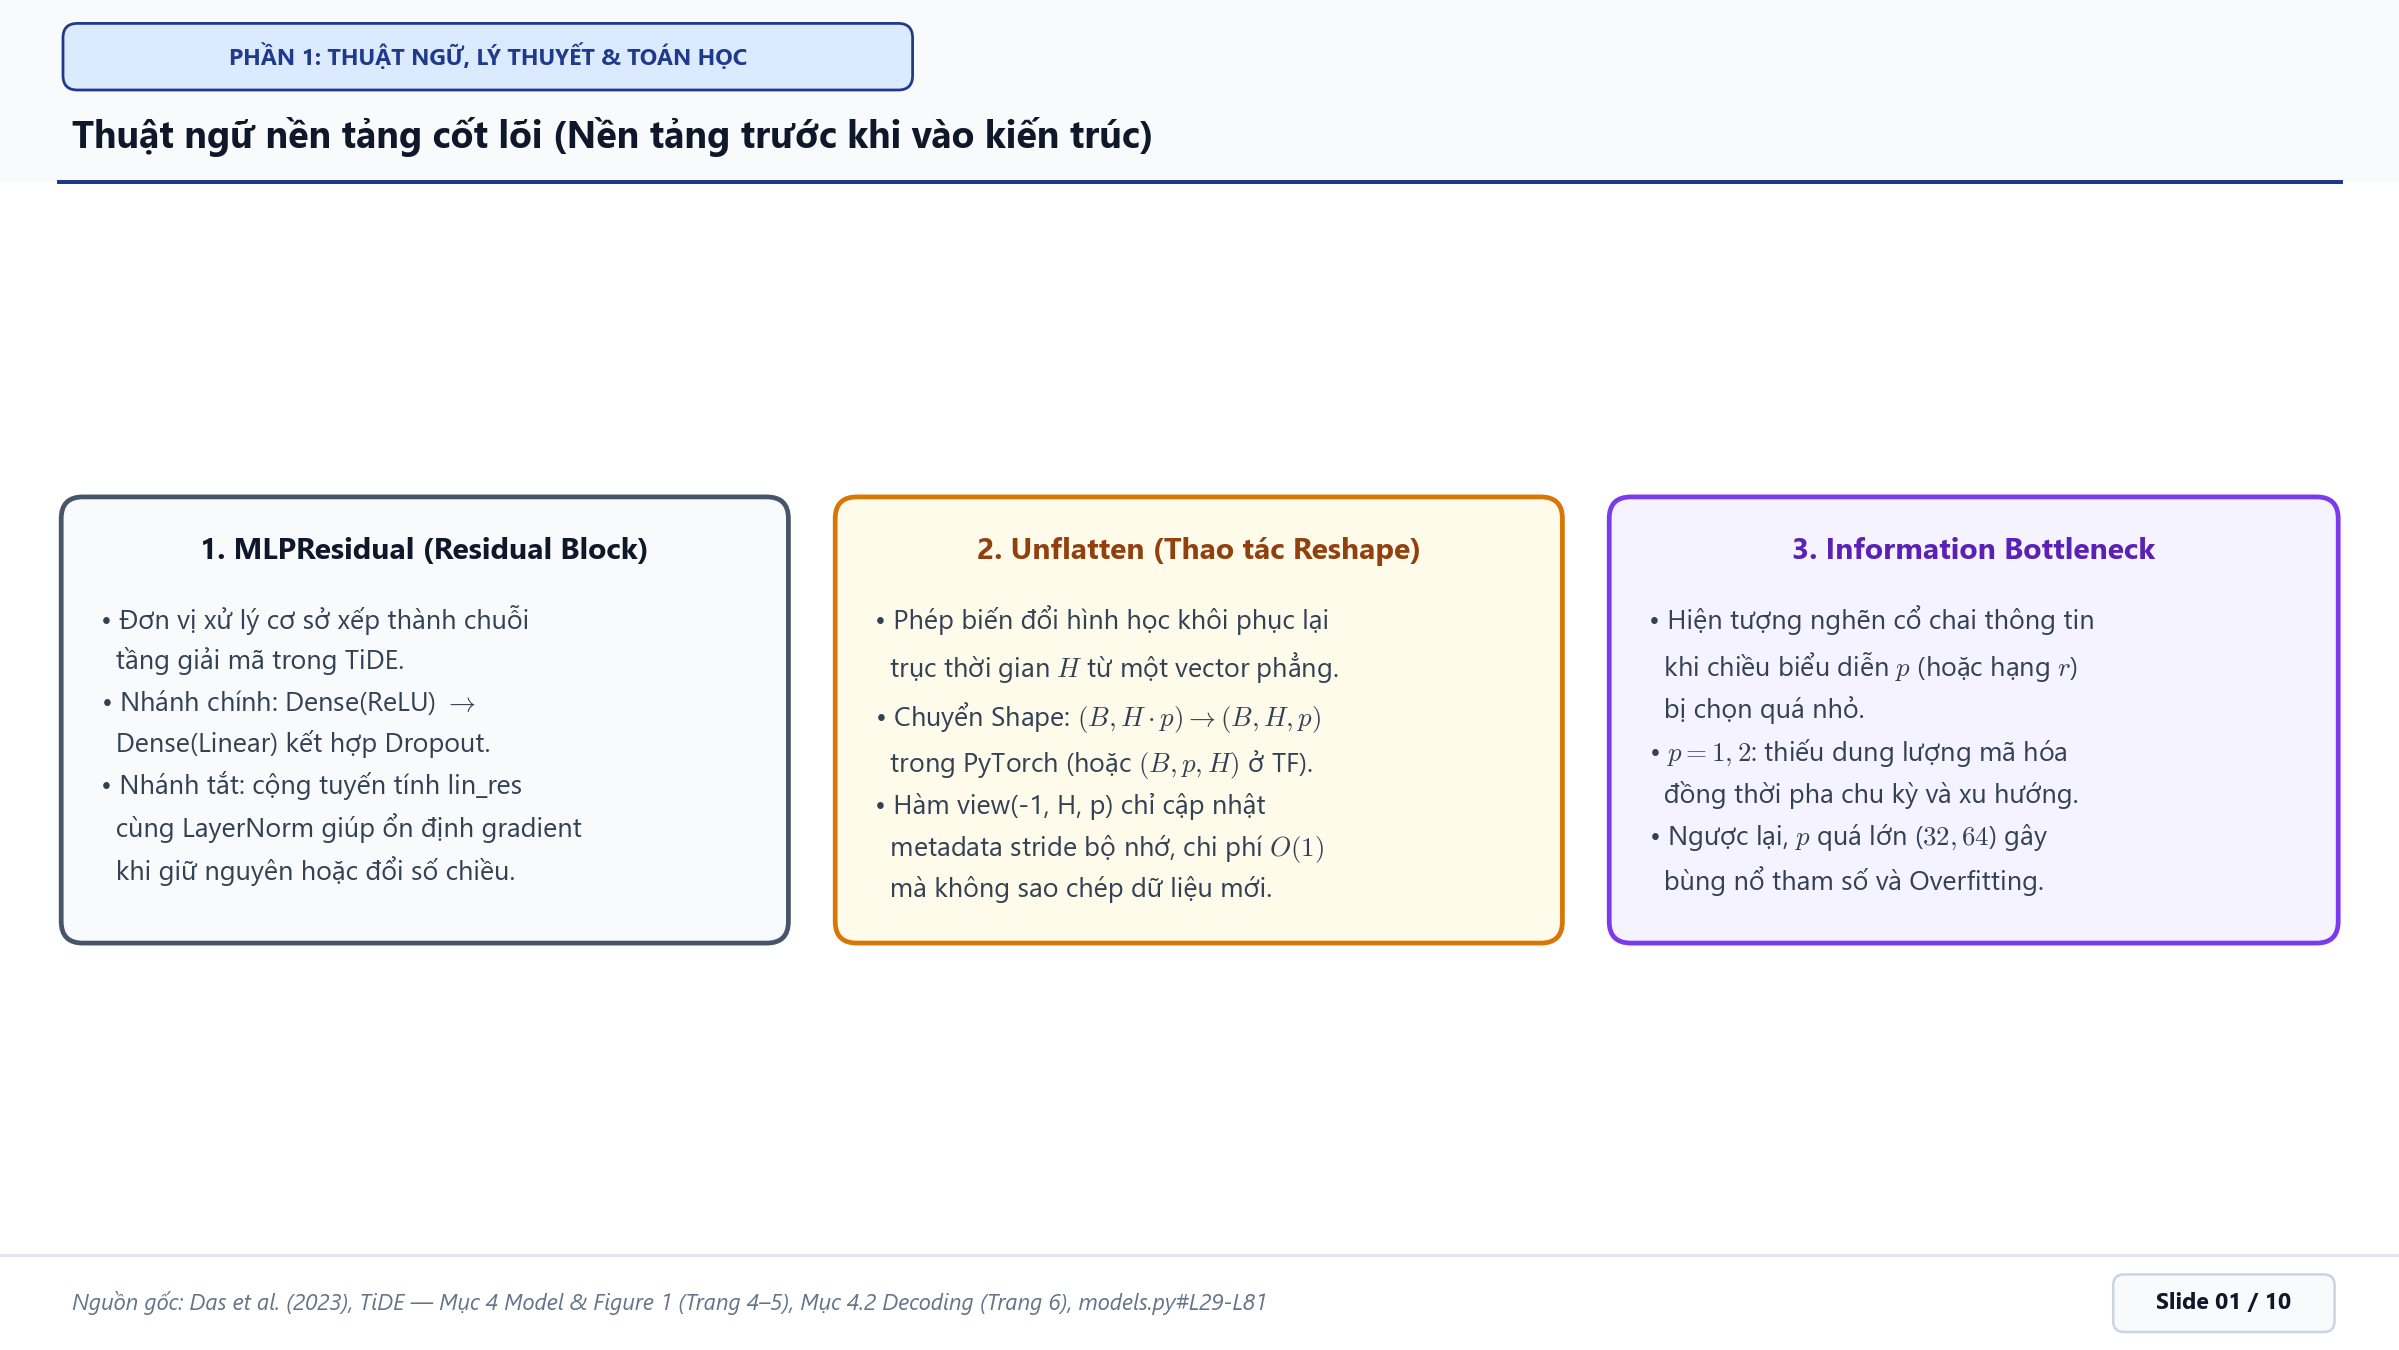
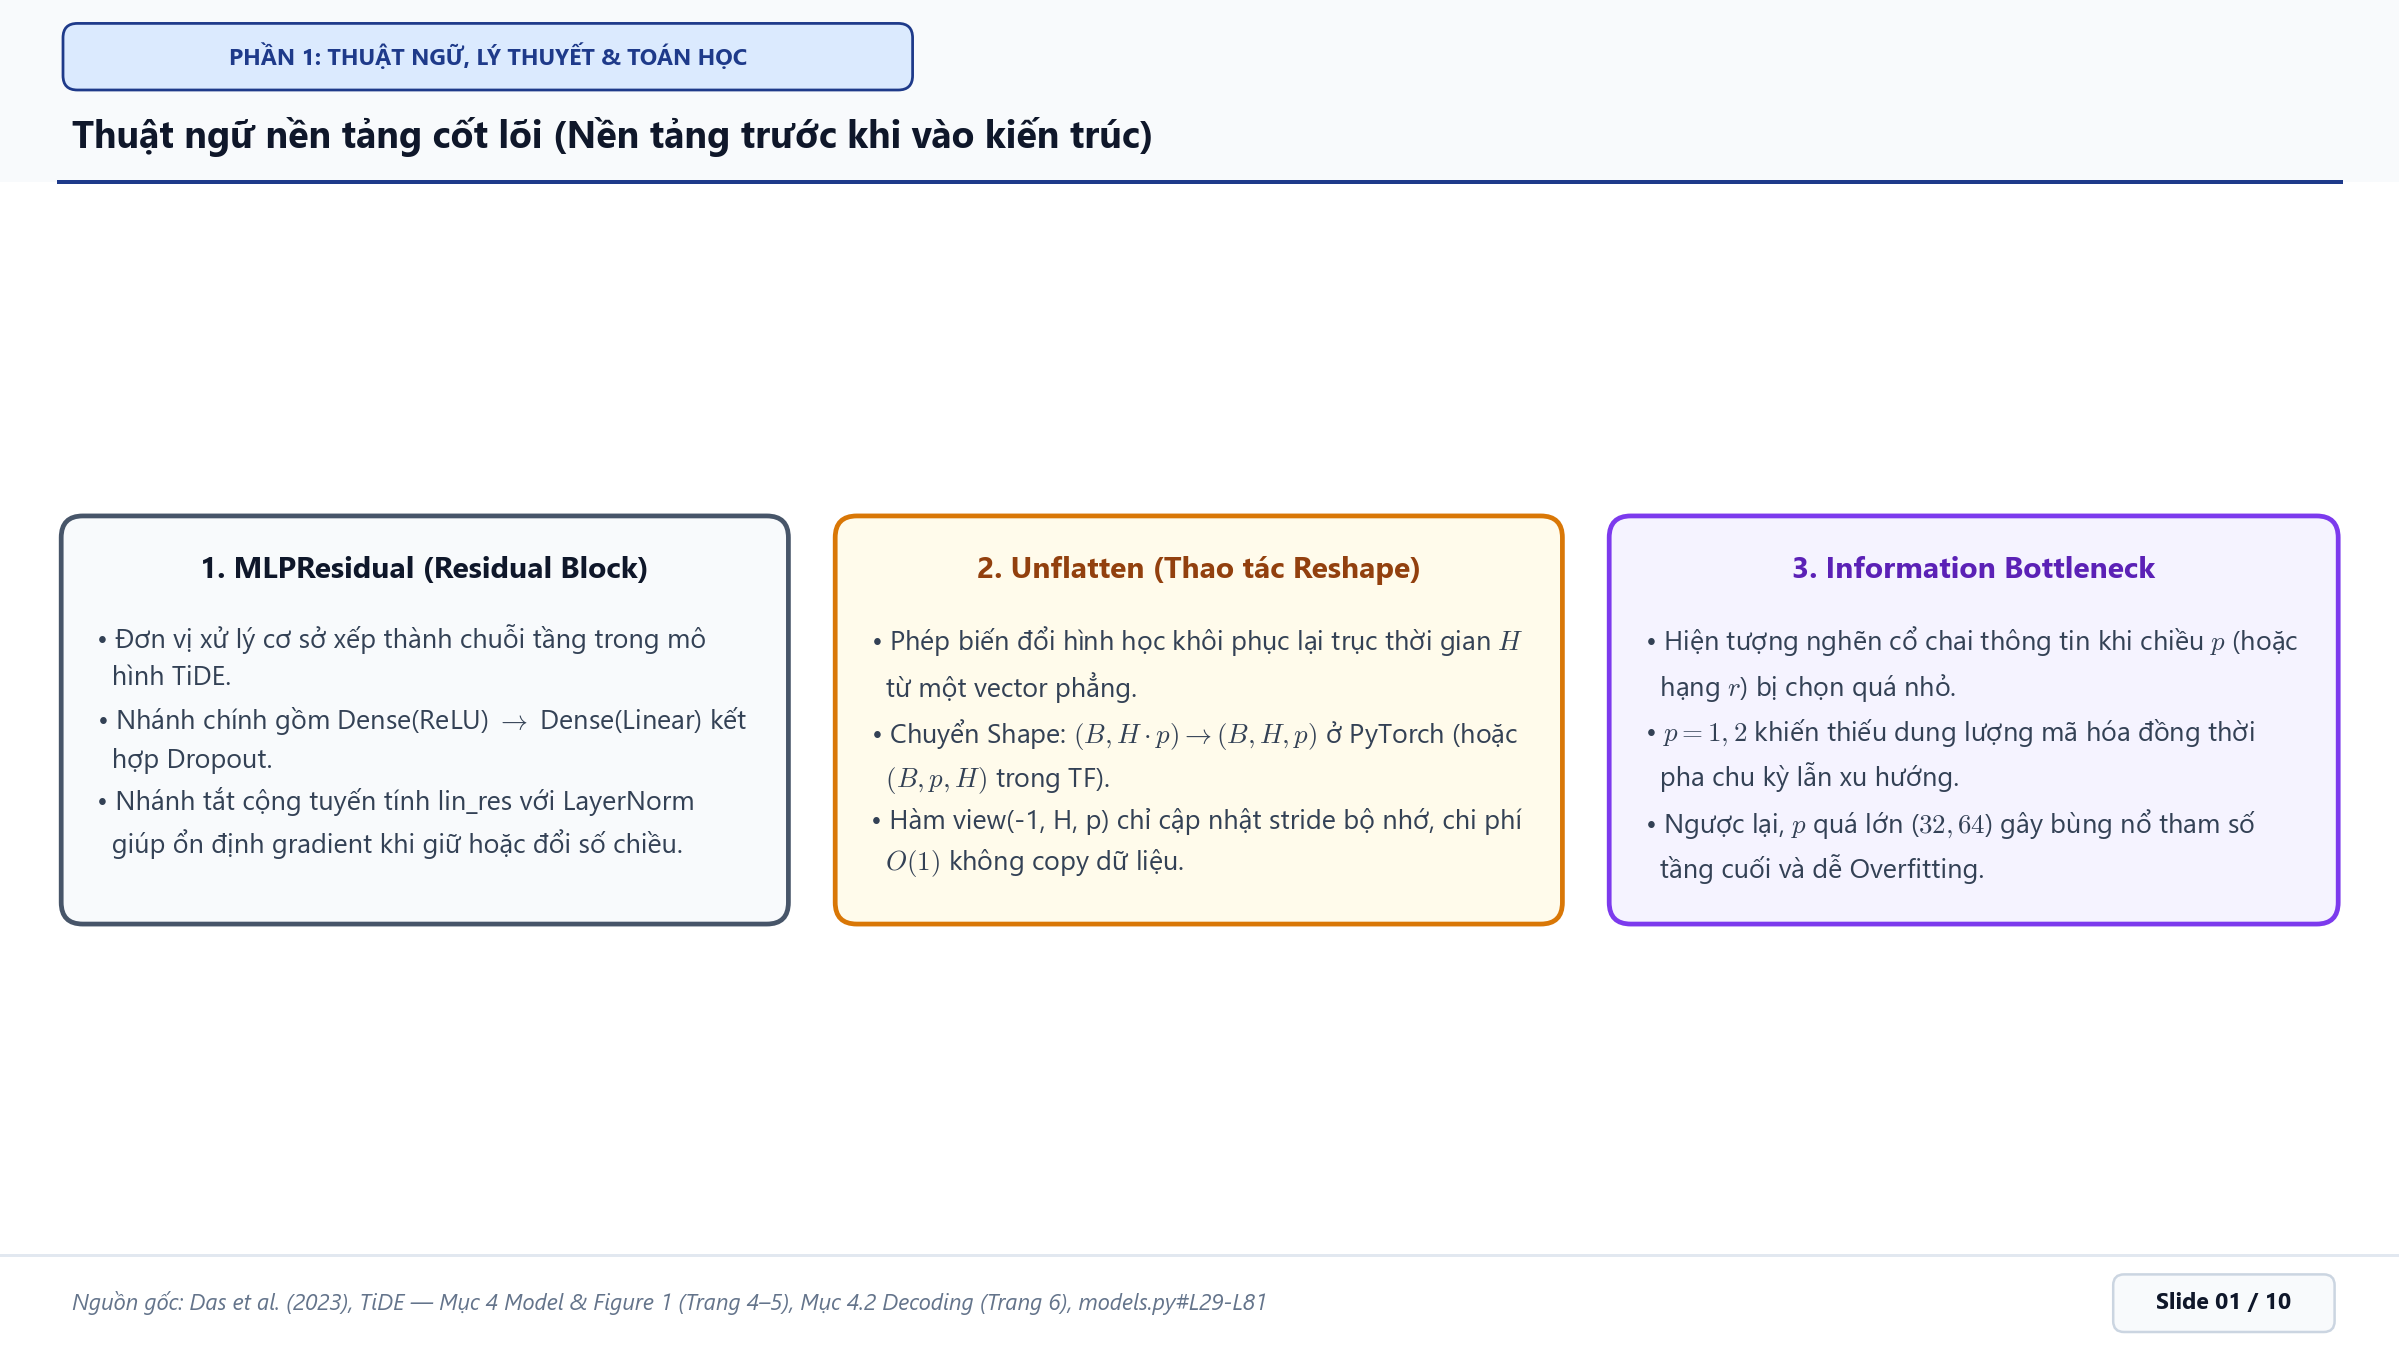
Enforce full-width card wrapping in rule_slide.md and fix Slide 01 line wrapping

Changed region(s): [[0.0308, 0.3422, 0.9871, 0.7156]]

diff --git a/tasks-Hieu/presentation/slide/rule_slide.md b/tasks-Hieu/presentation/slide/rule_slide.md
@@ -26,6 +26,7 @@
   * **Cỡ chữ đủ lớn để chiếu hội trường:** Nội dung text trong card tối thiểu **`10.5–11.5 pt`**; tiêu đề card **`11.5–12.2 pt`**; khoảng cách dòng thoáng (`linespacing = 1.50–1.58`). Tránh viết chữ quá nhỏ hoặc nhồi quá nhiều chữ vào 1 hộp.
   * **Thu hẹp khoảng cách giữa Title và Text:** Nội dung trong card phải được neo từ trên xuống (`va='top'`) ngay bên dưới tiêu đề (`Title`), tuyệt đối không căn giữa theo chiều dọc khiến phần đầu và thân card bị tách bởi khoảng trống lớn thừa thãi.
   * **Card BẮT BUỘC vừa khít nội dung (*Auto-Fit*, cấm chừa khoảng trống rỗng):** Chiều cao mỗi card phải **co khít chính xác** theo chiều cao thực tế của tiêu đề + toàn bộ nội dung chữ bên trong (chỉ chừa phần lề padding trên/dưới đồng đều `~0.16–0.22 in`, tuyệt đối không đặt chiều cao cố định quá lớn làm nửa dưới card bị bỏ trống). Các card cùng một hàng ngang nên có số dòng tương đồng nhau để khi co khít cùng một chiều cao hàng (`row_h`), không có card nào bị dư khoảng trắng thừa ở đáy.
+  * **Lấp đầy chiều ngang từng dòng trong Card (Cấm xuống dòng non):** Không tự ý ngắt dòng (`\n`) quá sớm khi chữ mới chiếm 60–75% chiều rộng card mà vẫn còn khoảng trống lớn ở lề phải. Phải đo bề rộng render thực tế để wrap chữ sát lề hữu dụng (**đạt ~85–93% chiều rộng card** trừ padding hai bên ~`0.15 in`), trừ khi kết thúc hẳn một ý bullet mới xuống dòng; các dòng nối tiếp của cùng 1 bullet cần thụt lề treo đồng đều (`  `).
   * **Sạch cú pháp thô:** Khi render ảnh PNG (Matplotlib/Pillow), tuyệt đối không để sót ký tự Markdown thô như `**in đậm**` hay `` `code` ``.
 
 ---
@@ -78,7 +79,7 @@
 
 ## ✅ Checklist Nghiệm thu trước khi Commit
 
-- [ ] Tất cả slide dùng chung chuẩn **16:9**, đồng nhất Header/Footer, cỡ chữ nội dung `>= 10.5 pt`, khoảng cách Title-to-Body gọn chặt và **toàn bộ card co khít đúng chiều cao chữ (không còn khoảng trắng rỗng thừa ở cuối card)**.
+- [ ] Tất cả slide dùng chung chuẩn **16:9**, đồng nhất Header/Footer, cỡ chữ nội dung `>= 10.5 pt`, khoảng cách Title-to-Body gọn chặt, **chữ mỗi dòng trải đầy ~85–93% bề rộng card (không xuống dòng non để trống lề phải)** và **toàn bộ card co khít đúng chiều cao chữ (không còn khoảng trắng rỗng thừa ở cuối card)**.
 - [ ] Đã đánh số thứ tự chính xác `Slide 01 / NN` → `Slide NN / NN` cả trong ảnh PNG lẫn toàn bộ file `.md` (`README.md`, `slide_01..03`, `slide_images_gallery.md`, `script_thuyet_trinh_tung_slide.md`).
 - [ ] Đã mở kiểm tra trực quan **từng ảnh PNG** (không chữ tràn viền, không mũi tên đè chữ, không ký tự `**` / `` ` `` thô).
 - [ ] Đã kiểm tra tự động toàn bộ liên kết `./images/*.png` không bị gãy link nào và tuân thủ [`RULE.md`](../../../RULE.md).
